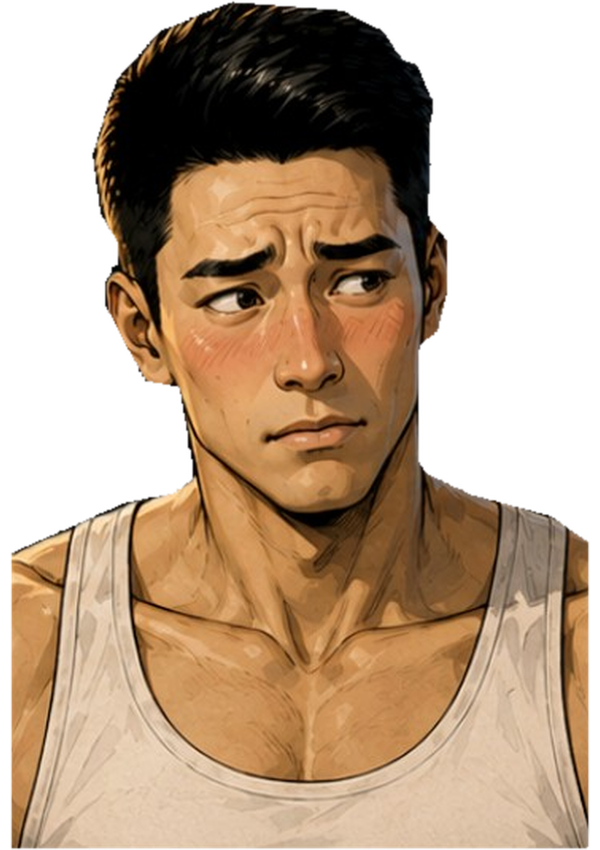
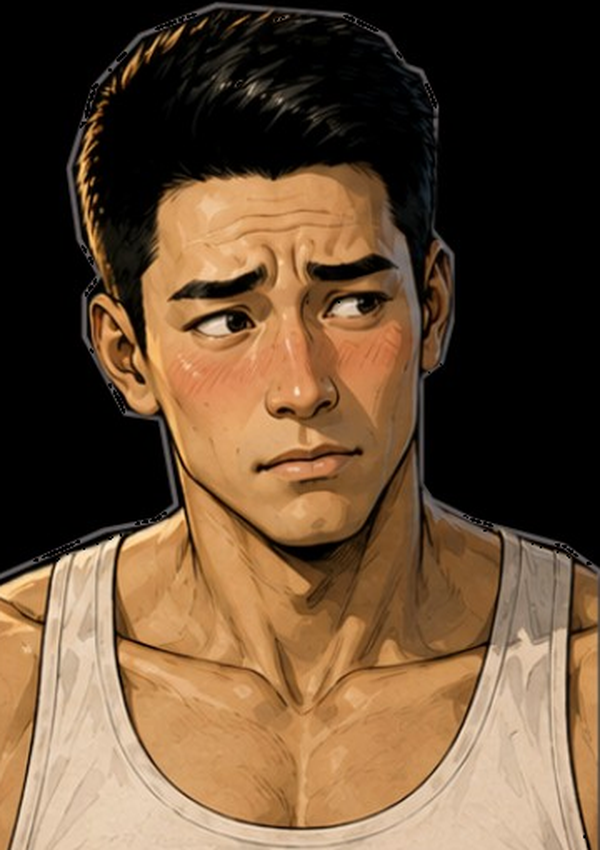
Fix Phase VI portrait framing and dialogue opacity

diff --git a/js/engine/09-defect-hotfix.js b/js/engine/09-defect-hotfix.js
@@ -1,4 +1,4 @@
-/* LAST WITNESS - Legacy Compatibility Shim + Runtime Bootstrap 0.19.3
+/* LAST WITNESS - Legacy Compatibility Shim + Runtime Bootstrap 0.19.4
  * Loads approved localization and targeted QC before dynamic Chapter IV modules.
  * Existing Phase I through Phase V order is preserved. Phase VI loads as an
  * isolated direct-handoff module before Developer navigation and QA surfaces.
@@ -6,7 +6,7 @@
 (function(){
 "use strict";
 window.LastWitnessLegacyHotfix={disabled:true,version:"0.5.0"};
-window.LastWitnessRuntimeBuild="0.19.3";
+window.LastWitnessRuntimeBuild="0.19.4";
 
 function stylesheet(href,id){
  if(document.getElementById(id))return;const link=document.createElement("link");link.id=id;link.rel="stylesheet";link.href=href;document.head.appendChild(link)
@@ -32,17 +32,17 @@ script("js/engine/15-thai-localization.js?v=0152","lwThaiLocalizationScript",()=
  .then(()=>{stylesheet("css/chapter-04-phase-04-revision.css?v=0176","lwChapter04Phase04RevisionStyle");return script("js/chapters/chapter-04/04a-arman-encounter-revision.js?v=0178","lwChapter04Phase04RevisionScript",()=>Boolean(window.LastWitnessChapter4Phase4Revision?.version==="0.17.8"&&window.LastWitnessChapter4Phase4Revision?.installed)).catch(error=>console.error("LAST WITNESS Phase IV consistency repair failed to load",error))})
  .then(()=>{stylesheet("css/chapter-04-phase-05.css?v=0188","lwChapter04Phase05Style");stylesheet("css/chapter-04-phase-05-revision.css?v=0190","lwChapter04Phase05RevisionStyle");return script("js/chapters/chapter-04/05-north-is-marked.js?v=0189","lwChapter04Phase05Script",()=>Boolean(window.LastWitnessChapter4Phase5?.version==="0.18.9")).catch(error=>console.error("LAST WITNESS North Is Marked failed to load",error))})
  .then(()=>{
-  stylesheet("css/chapter-04-phase-06.css?v=0193","lwChapter04Phase06Style");
+  stylesheet("css/chapter-04-phase-06.css?v=0194","lwChapter04Phase06Style");
   return script("js/chapters/chapter-04/06-false-success-visual-assets.js?v=0190","lwChapter04Phase06VisualAssets",()=>Boolean(window.LastWitnessPhase6VisualAssets))
  })
- .then(()=>script("js/chapters/chapter-04/06-false-success-portrait-assets.js?v=0193","lwChapter04Phase06PortraitAssets",()=>Boolean(window.LastWitnessPhase6PortraitAssets)))
+ .then(()=>script("js/chapters/chapter-04/06-false-success-portrait-assets.js?v=0194","lwChapter04Phase06PortraitAssets",()=>Boolean(window.LastWitnessPhase6PortraitAssets)))
  .then(()=>script("js/chapters/chapter-04/06-false-success-audio-assets.js?v=0190","lwChapter04Phase06AudioAssets",()=>Boolean(window.LastWitnessPhase6AudioAssets)))
- .then(()=>script("js/chapters/chapter-04/06-false-success.js?v=0193","lwChapter04Phase06Script",()=>Boolean(window.LastWitnessChapter4Phase6?.version==="0.19.3")).catch(error=>console.error("LAST WITNESS The False Success failed to load",error)))
+ .then(()=>script("js/chapters/chapter-04/06-false-success.js?v=0194","lwChapter04Phase06Script",()=>Boolean(window.LastWitnessChapter4Phase6?.version==="0.19.4")).catch(error=>console.error("LAST WITNESS The False Success failed to load",error)))
  .then(()=>script("js/engine/23-chapter4-native-thai.js?v=01813","lwChapter4NativeThaiScript",()=>Boolean(window.LastWitnessChapter4NativeThai?.version==="0.18.13"&&window.LastWitnessChapter4NativeThai?.installed)).catch(error=>console.error("LAST WITNESS Chapter IV Native Thai localization failed to load",error)))
  .then(()=>script("js/engine/19-ch4-phase3-direct-handoff.js?v=0170d2","lwChapter4Phase3DirectHandoffScript",()=>Boolean(window.LastWitnessPhase3DirectHandoff?.version==="0.17.0-d2"&&window.LastWitnessPhase3DirectHandoff?.installed)).catch(error=>console.error("LAST WITNESS Phase III direct handoff failed to load",error)))
  .then(()=>script("js/engine/18-developer-phase-navigation.js?v=0192d1","lwDeveloperPhaseNavigationScript",()=>Boolean(window.LastWitnessDeveloperPhaseNavigation?.version==="0.19.2-d1"&&window.LastWitnessDeveloperPhaseNavigation?.installed)).catch(error=>console.error("LAST WITNESS Developer Phase Navigation failed to load",error)))
  .then(()=>script("js/engine/24-north-qa-access.js?v=01817","lwNorthQAAccessScript",()=>Boolean(window.LastWitnessNorthQA?.version==="0.18.17"&&window.LastWitnessNorthQA?.installed)).catch(error=>console.error("LAST WITNESS North QA Access failed to load",error)))
- .then(()=>script("js/engine/25-runtime-build-label.js?v=0193","lwRuntimeBuildLabelScript",()=>Boolean(window.LastWitnessRuntimeBuildLabel?.version==="0.19.3"&&window.LastWitnessRuntimeBuildLabel?.installed)).catch(error=>console.error("LAST WITNESS Runtime Build Label failed to load",error)))
+ .then(()=>script("js/engine/25-runtime-build-label.js?v=0194","lwRuntimeBuildLabelScript",()=>Boolean(window.LastWitnessRuntimeBuildLabel?.version==="0.19.4"&&window.LastWitnessRuntimeBuildLabel?.installed)).catch(error=>console.error("LAST WITNESS Runtime Build Label failed to load",error)))
  .then(()=>stylesheet("css/phase-action-standard.css?v=01718","lwPhaseActionStandardStyle"))
  .catch(error=>console.error("LAST WITNESS runtime bootstrap failed",error));
 })();

diff --git a/js/chapters/chapter-04/06-false-success-portrait-assets.js b/js/chapters/chapter-04/06-false-success-portrait-assets.js
@@ -1,1 +1,1 @@
-window.LastWitnessPhase6PortraitAssets={"frames":{"benedict_0":"assets/images/chapter-04/phase-06/portraits/benedict-0.png?v=0193","benedict_1":"assets/images/chapter-04/phase-06/portraits/benedict-1.png?v=0193","benedict_2":"assets/images/chapter-04/phase-06/portraits/benedict-2.png?v=0193","benedict_5":"assets/images/chapter-04/phase-06/portraits/benedict-5.png?v=0193","benedict_7":"assets/images/chapter-04/phase-06/portraits/benedict-7.png?v=0193","north_0":"assets/images/chapter-04/phase-06/portraits/north-0.png?v=0193","north_1":"assets/images/chapter-04/phase-06/portraits/north-1.png?v=0193","north_2":"assets/images/chapter-04/phase-06/portraits/north-2.png?v=0193","north_3":"assets/images/chapter-04/phase-06/portraits/north-3.png?v=0193","north_4":"assets/images/chapter-04/phase-06/portraits/north-4.png?v=0193","north_6":"assets/images/chapter-04/phase-06/portraits/north-6.png?v=0193","cheryl_0":"assets/images/chapter-04/phase-06/portraits/cheryl-0.png?v=0193","cheryl_1":"assets/images/chapter-04/phase-06/portraits/cheryl-1.png?v=0193","cheryl_4":"assets/images/chapter-04/phase-06/portraits/cheryl-4.png?v=0193","cheryl_7":"assets/images/chapter-04/phase-06/portraits/cheryl-7.png?v=0193","maya_0":"assets/images/chapter-04/phase-06/portraits/maya-0.png?v=0193","maya_1":"assets/images/chapter-04/phase-06/portraits/maya-1.png?v=0193","maya_5":"assets/images/chapter-04/phase-06/portraits/maya-5.png?v=0193","maya_7":"assets/images/chapter-04/phase-06/portraits/maya-7.png?v=0193"}};
+window.LastWitnessPhase6PortraitAssets={"frames":{"benedict_0":"assets/images/chapter-04/phase-06/portraits/benedict-0.png?v=0194","benedict_1":"assets/images/chapter-04/phase-06/portraits/benedict-1.png?v=0194","benedict_2":"assets/images/chapter-04/phase-06/portraits/benedict-2.png?v=0194","benedict_5":"assets/images/chapter-04/phase-06/portraits/benedict-5.png?v=0194","benedict_7":"assets/images/chapter-04/phase-06/portraits/benedict-7.png?v=0194","north_0":"assets/images/chapter-04/phase-06/portraits/north-0.png?v=0194","north_1":"assets/images/chapter-04/phase-06/portraits/north-1.png?v=0194","north_2":"assets/images/chapter-04/phase-06/portraits/north-2.png?v=0194","north_3":"assets/images/chapter-04/phase-06/portraits/north-3.png?v=0194","north_4":"assets/images/chapter-04/phase-06/portraits/north-4.png?v=0194","north_6":"assets/images/chapter-04/phase-06/portraits/north-6.png?v=0194","cheryl_0":"assets/images/chapter-04/phase-06/portraits/cheryl-0.png?v=0194","cheryl_1":"assets/images/chapter-04/phase-06/portraits/cheryl-1.png?v=0194","cheryl_4":"assets/images/chapter-04/phase-06/portraits/cheryl-4.png?v=0194","cheryl_7":"assets/images/chapter-04/phase-06/portraits/cheryl-7.png?v=0194","maya_0":"assets/images/chapter-04/phase-06/portraits/maya-0.png?v=0194","maya_1":"assets/images/chapter-04/phase-06/portraits/maya-1.png?v=0194","maya_5":"assets/images/chapter-04/phase-06/portraits/maya-5.png?v=0194","maya_7":"assets/images/chapter-04/phase-06/portraits/maya-7.png?v=0194"}};

diff --git a/js/chapters/chapter-04/06-false-success.js b/js/chapters/chapter-04/06-false-success.js
@@ -1,12 +1,12 @@
-/* LAST WITNESS - Chapter IV / Phase VI: THE FALSE SUCCESS 0.19.3
+/* LAST WITNESS - Chapter IV / Phase VI: THE FALSE SUCCESS 0.19.4
  * Direct Phase V handoff, hotel character beat, controlled false-success hold,
  * read-only reaction-chain reconstruction and Phase VII relay-facility lead.
  */
 (function(){
 "use strict";
-if(window.LastWitnessChapter4Phase6?.version==="0.19.3")return;
+if(window.LastWitnessChapter4Phase6?.version==="0.19.4")return;
 
-const BUILD="0.19.3";
+const BUILD="0.19.4";
 const P5_COMPLETE="arunaPhase5Complete";
 const TITLE="falseSuccessPhase6Card";
 const HOTEL_CARD="falseSuccessHotelCard";
@@ -176,7 +176,7 @@ function renderDialogue(){
  box.innerHTML=`<div class="portrait-wrap">${portraitHtml}</div><div class="dialogue-copy"><div class="speaker">${label}</div><div class="line">${thai()?line[3]:line[2]}</div></div><div class="next">${tr("TAP TO CONTINUE","แตะเพื่อดำเนินต่อ")}</div>`;
  syncAudio()
 }
-function talk(lines,done){const box=dialogueBox();if(!box){done?.();return}dialogue={lines,i:0,done};box.classList.remove("hidden");renderDialogue();box.onclick=()=>{if(!dialogue)return;recordHistory(dialogue.lines[dialogue.i]);dialogue.i++;if(dialogue.i>=dialogue.lines.length){const fn=dialogue.done;dialogue=null;box.classList.add("hidden");box.onclick=null;syncAudio();fn?.();save()}else renderDialogue()}}
+function talk(lines,done){const box=dialogueBox();if(!box){done?.();return}const action=$("#"+active()+"Action");if(action)action.hidden=true;dialogue={lines,i:0,done};box.classList.remove("hidden");renderDialogue();box.onclick=()=>{if(!dialogue)return;recordHistory(dialogue.lines[dialogue.i]);dialogue.i++;if(dialogue.i>=dialogue.lines.length){const fn=dialogue.done;dialogue=null;box.classList.add("hidden");box.onclick=null;syncAudio();fn?.();save()}else renderDialogue()}}
 function talkCg(lines,done){const box=$("#ch4P6CgDialogue");cgDialogue={lines,i:0,done};box.classList.remove("hidden");const render=()=>{const line=cgDialogue.lines[cgDialogue.i];box.innerHTML=`<div class="speaker">${speakerLabel(line[0])}</div><div class="line">${thai()?line[3]:line[2]}</div><div class="next">${tr("TAP TO CONTINUE","แตะเพื่อดำเนินต่อ")}</div>`;syncAudio()};render();box.onclick=()=>{if(!cgDialogue)return;recordHistory(cgDialogue.lines[cgDialogue.i]);cgDialogue.i++;if(cgDialogue.i>=cgDialogue.lines.length){const fn=cgDialogue.done;cgDialogue=null;box.classList.add("hidden");box.onclick=null;syncAudio();fn?.();save()}else render()}}
 
 const D={

diff --git a/css/chapter-04-phase-06.css b/css/chapter-04-phase-06.css
@@ -1,4 +1,4 @@
-/* LAST WITNESS - Chapter IV / Phase VI: THE FALSE SUCCESS 0.19.3 */
+/* LAST WITNESS - Chapter IV / Phase VI: THE FALSE SUCCESS 0.19.4 */
 :root{--p6-gold:#ddb56d;--p6-blue:#77a4b7;--p6-ink:#04070b;--p6-paper:#f5eee4;--p6-red:#c75d58;--p6-green:#88bd9d}
 .ch4-p6-handoff-source{display:none!important}
 .ch4-p6-card,.ch4-p6-screen,.ch4-p6-cg,.ch4-p6-alert,.ch4-p6-complete{background:#040609;color:var(--p6-paper)}
@@ -54,3 +54,14 @@
 
 .ch4-p6-evidence .modal-card>footer{display:flex!important;justify-content:center!important;align-items:center!important}
 .ch4-p6-evidence #ch4P6EvidenceNext{width:min(100%,330px);margin:0 auto}
+
+
+/* 0.19.4 portrait matte + dialogue legibility repair. Phase VI only. */
+.ch4-p6-screen .ch4-p5-dialogue,
+.ch4-p6-alert .ch4-p5-dialogue{
+ background:linear-gradient(145deg,#080b10 0%,#030407 78%,#010203 100%)!important;
+ backdrop-filter:none!important;
+ -webkit-backdrop-filter:none!important;
+}
+.ch4-p6-screen .ch4-p5-dialogue .portrait-wrap,
+.ch4-p6-alert .ch4-p5-dialogue .portrait-wrap{background:#000!important}

diff --git a/js/engine/25-runtime-build-label.js b/js/engine/25-runtime-build-label.js
@@ -1,10 +1,10 @@
-/* LAST WITNESS - Authoritative Runtime Build Label 0.19.3
+/* LAST WITNESS - Authoritative Runtime Build Label 0.19.4
  * Keeps Settings, Owner Developer, North QA and Save Manager metadata on the
  * current Runtime build while historical phase modules retain their versions.
  */
 (function(){
 "use strict";
-const VERSION="0.19.3";
+const VERSION="0.19.4";
 const SETTINGS_TEXT=`LAST WITNESS · BUILD ${VERSION}`;
 const QA_TEXT=`BUILD ${VERSION}`;
 const DEV_TEXT=`BUILD ${VERSION}`;
